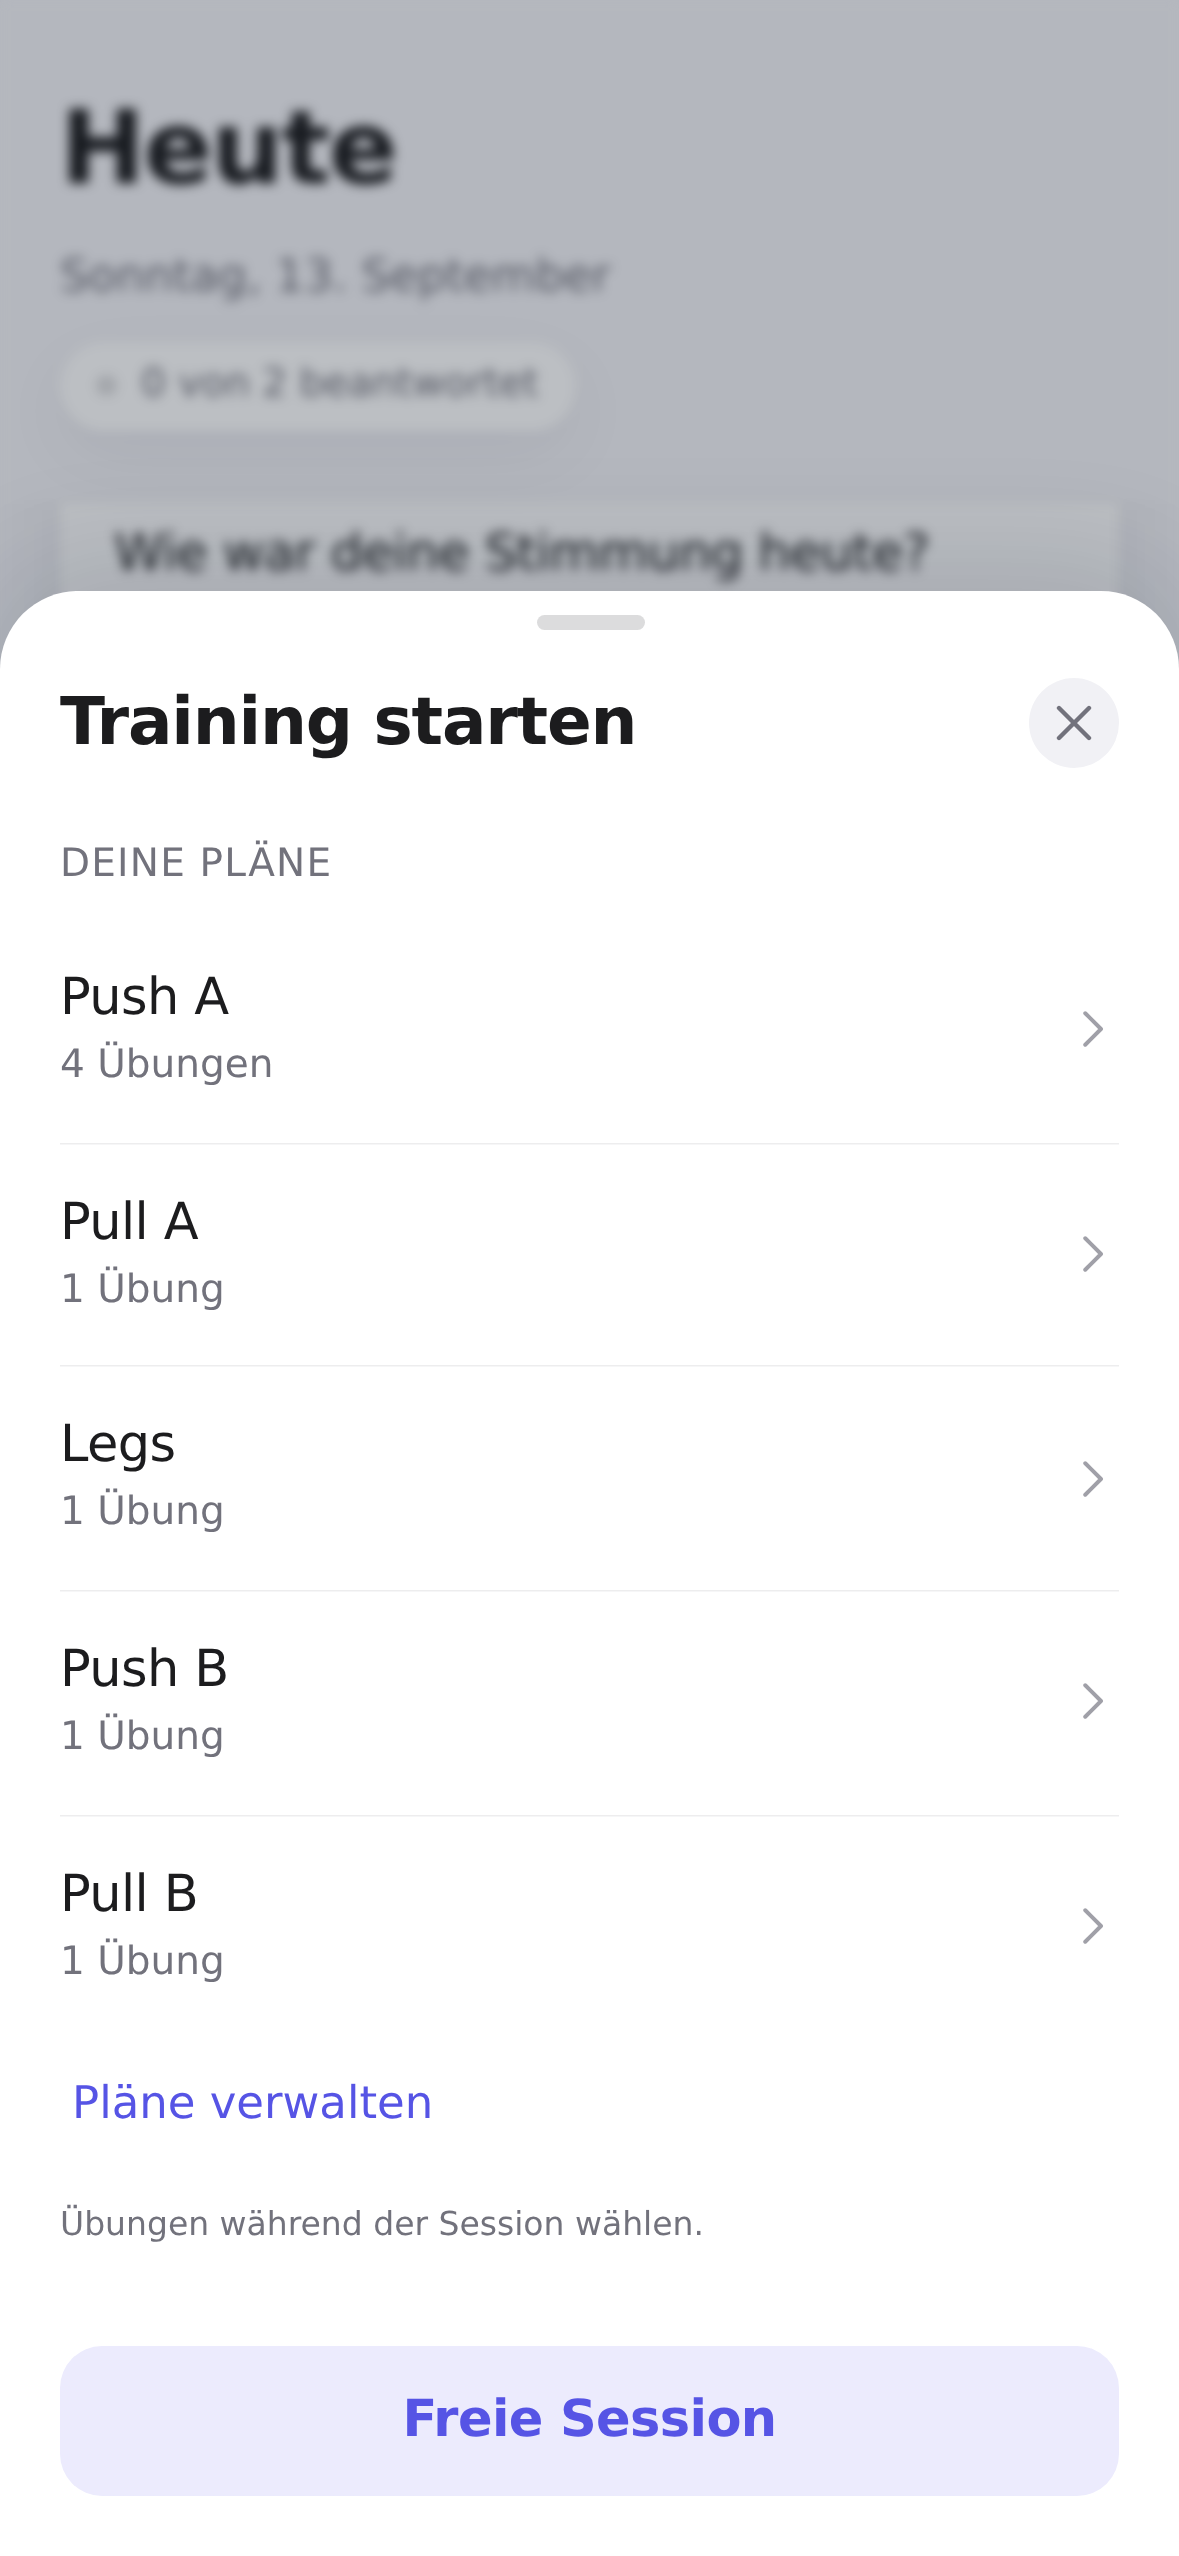
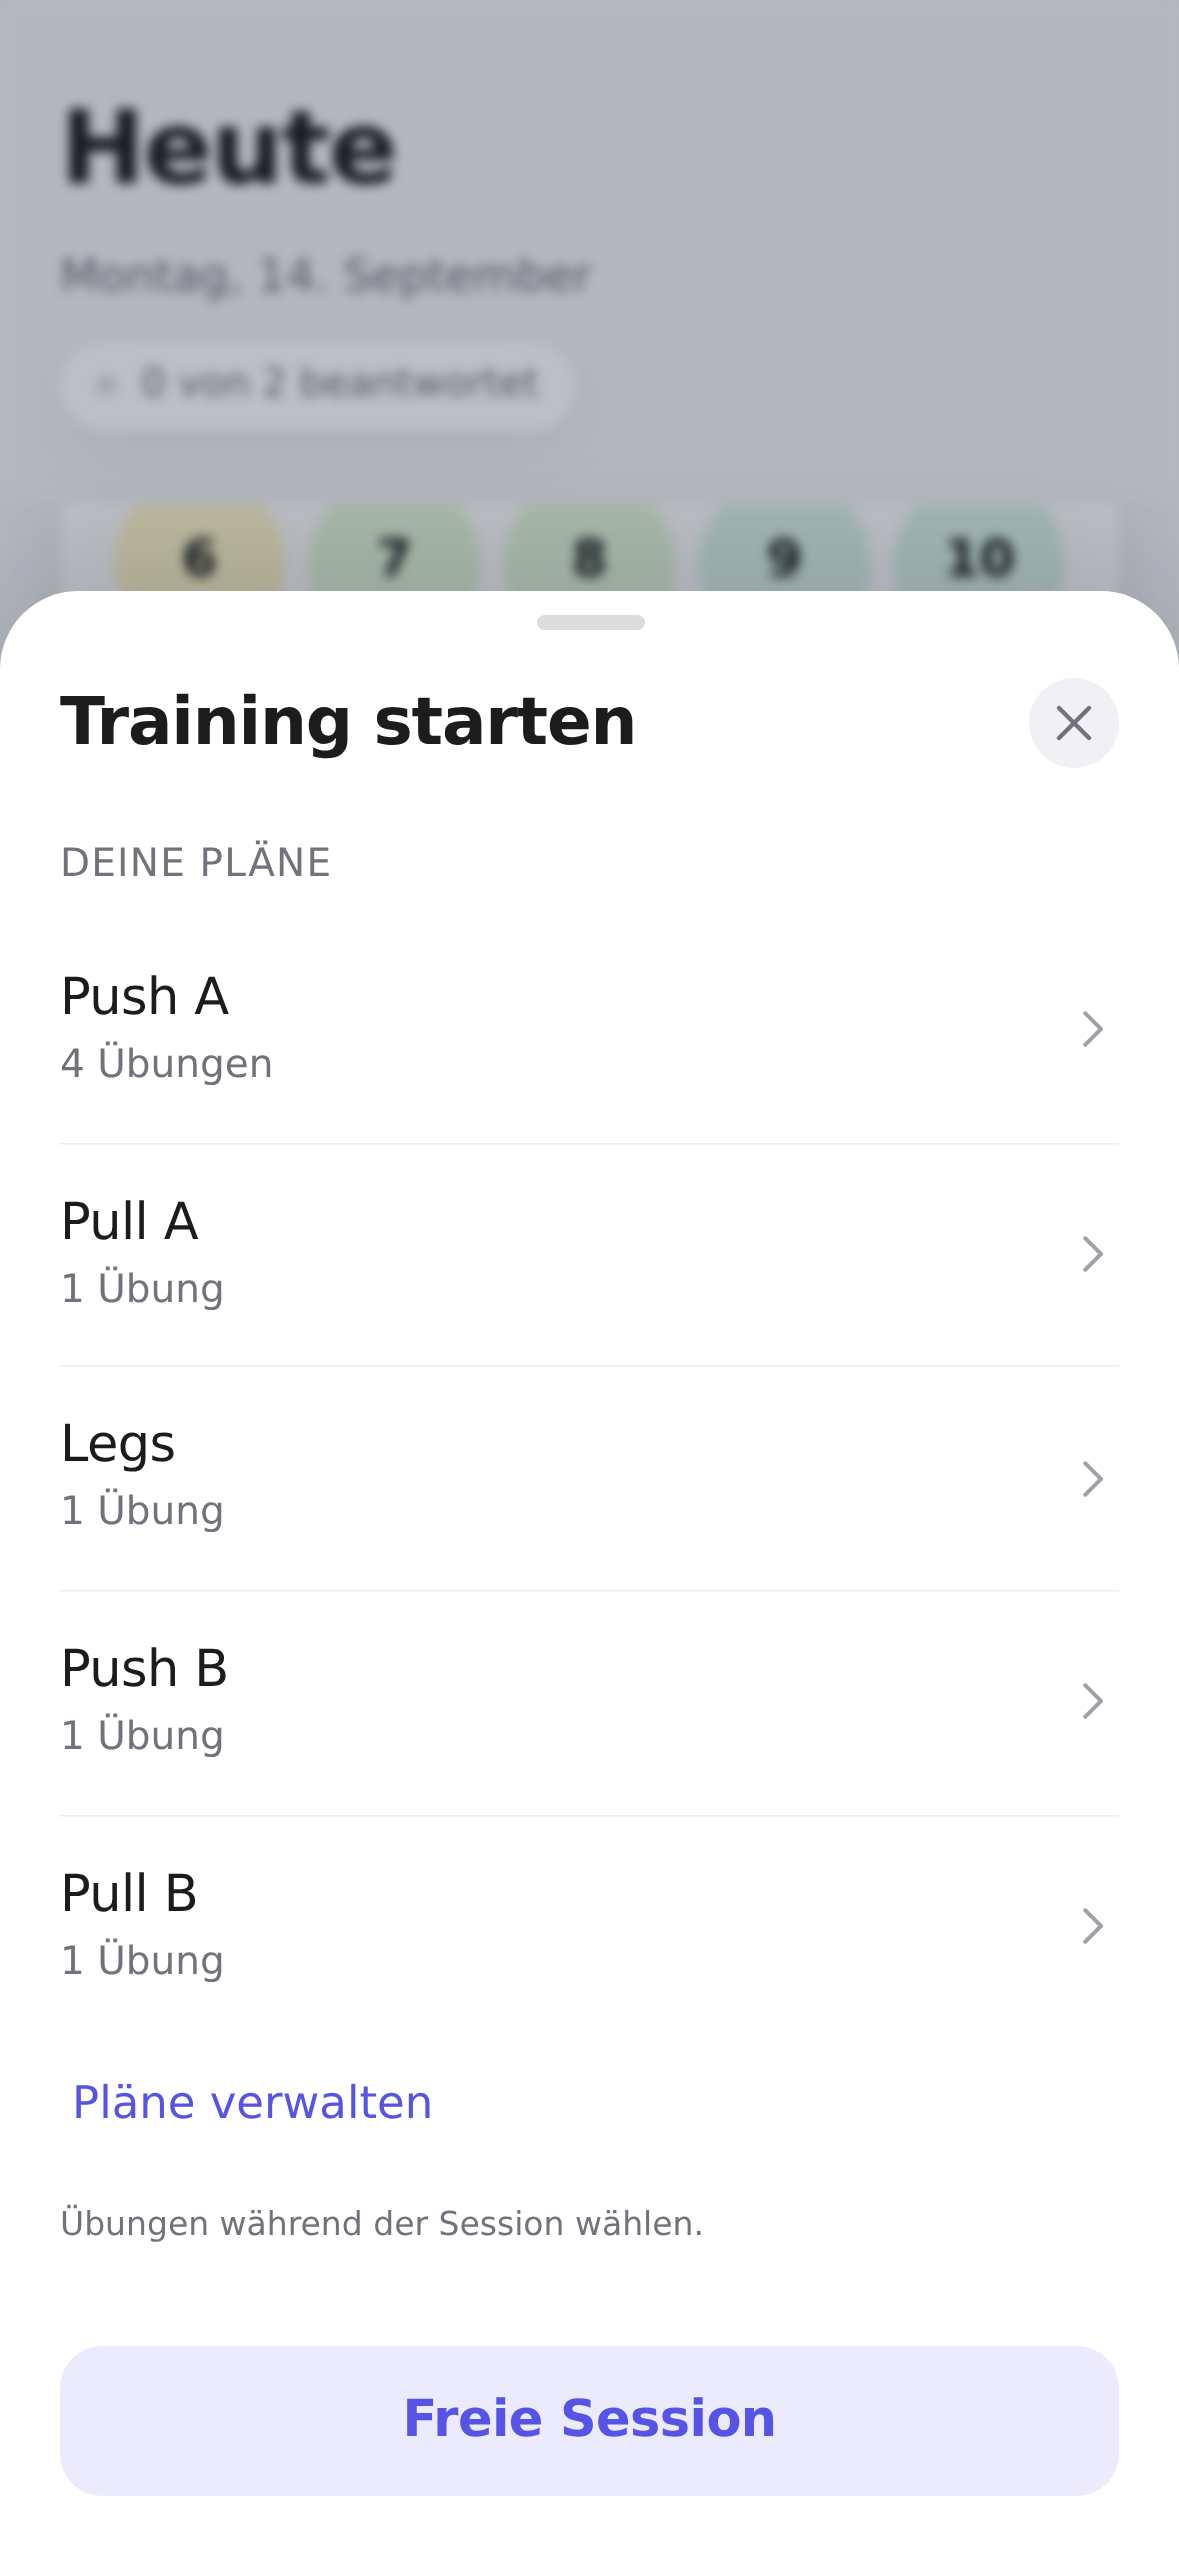
WP2 hardening: the Training card counts a session the ledger has not scored
- The hub's week line gates on the session log, not on the Boss ledger's
  "started": the ledger starts Gym from its first scored day, so on the day
  of a user's first session the card said "Noch keine Session erfasst."
  above "Heute bereits eine Session erfasst.". While either load is
  pending the line says nothing rather than "none".
- wp2-1-shots asserts the hub counts the day's first session; wp2-2-shots
  derives the expected week sentence from the stored sessions instead of
  assuming an above-target week (the suite ran on a Sunday when written).
- HANDOVER files the date-dependent phase41 assertion: mechanism suspected
  (7-day seed blocks against ISO weeks), observed dates, not proven.

Claude-Session: https://claude.ai/code/session_015fAT3kdqgGygT9pEWBKmVm

Changed region(s): [[0.0916, 0.1854, 0.8855, 0.2473], [0.2443, 0.0927, 0.3053, 0.1236]]

diff --git a/src/features/gym/TrainingCard.tsx b/src/features/gym/TrainingCard.tsx
@@ -55,7 +55,19 @@ export function TrainingCard({
   // The same two stored values, read three ways: a fraction only while the
   // target is ahead, because "7 von 3" reads as a bounded progress figure
   // that it is not. No number here changes; only the sentence does.
-  const weekLine = rating && rating.started ? weekSentence(t, rating.state.sessionsThisWeek, rating.state.weeklyTarget) : t('gymHub.training.none');
+  //
+  // Whether a session exists is the session log's fact, not the ledger's:
+  // the Boss ledger counts Gym as started only from its first *scored* day,
+  // and a user's first session is logged on a day that has not closed yet.
+  // Gating on the ledger said "no session yet" right above "one logged
+  // today". While either is still loading the line says nothing — loading
+  // is not "none".
+  const weekLine =
+    facts === null || rating === null
+      ? null
+      : facts.latest
+        ? weekSentence(t, rating.state.sessionsThisWeek, rating.state.weeklyTarget)
+        : t('gymHub.training.none');
   const lastLine = facts?.latest
     ? facts.today
       ? t('gymHub.training.today')
@@ -75,7 +87,7 @@ export function TrainingCard({
   return (
     <Section label={t('gymHub.training.title')}>
       <Card className="gym-hub__training">
-        <p className="gym-hub__week">{weekLine}</p>
+        <p className="gym-hub__week">{weekLine ?? '\u00A0'}</p>
         {lastLine ? <p className="gym-hub__last">{lastLine}</p> : null}
         <div className="gym-hub__action">
           <Button variant="primary" block onClick={onStart}>

diff --git a/HANDOVER.md b/HANDOVER.md
@@ -618,6 +618,20 @@ balance") identically on the pre-integration base `fc2ffff`, and `body.mjs`'s
 dev-page tap grid misses one region of about its own pitch while the finer
 production probe reaches all ten. Neither test was edited for the release.
 
+**The `phase41` date dependence, filed (WP2 hardening).** The check seeds
+three "met weeks" as 7-day blocks counted back from the run date
+(`seedGym`, sessions at day offsets 0, 2 and 4 of each block), then deletes
+"the middle week" by the sessions' stored `weekKey`, which is the ISO week
+(Monday to Sunday), and expects the Endurance progress to read
+`1.5 von 4 Wochen`. The seed's blocks and the ledger's ISO weeks only line
+up on some weekdays; on the others the deleted ISO week straddles two seed
+blocks, a different set of sessions disappears, and the tile reads
+`1.0 von 4 Wochen`. Observed failing on 2026-09-13 (a Sunday) and recorded
+as failing on `fc2ffff` before the muscle-map integration; no run in the WP2
+series has seen it pass, so the passing weekdays are not verified. The
+mechanism is suspected, not proven: the fix would anchor the seed to ISO
+weeks (a harness change, not a product one) and is not part of WP2.
+
 **Next for the muscle map, none of it blocking:** a finer pitch for the
 `body.mjs` probe; the "several exercises" line for a group whose latest day
 had more than one (the ids are on the view model, the copy is not decided);
